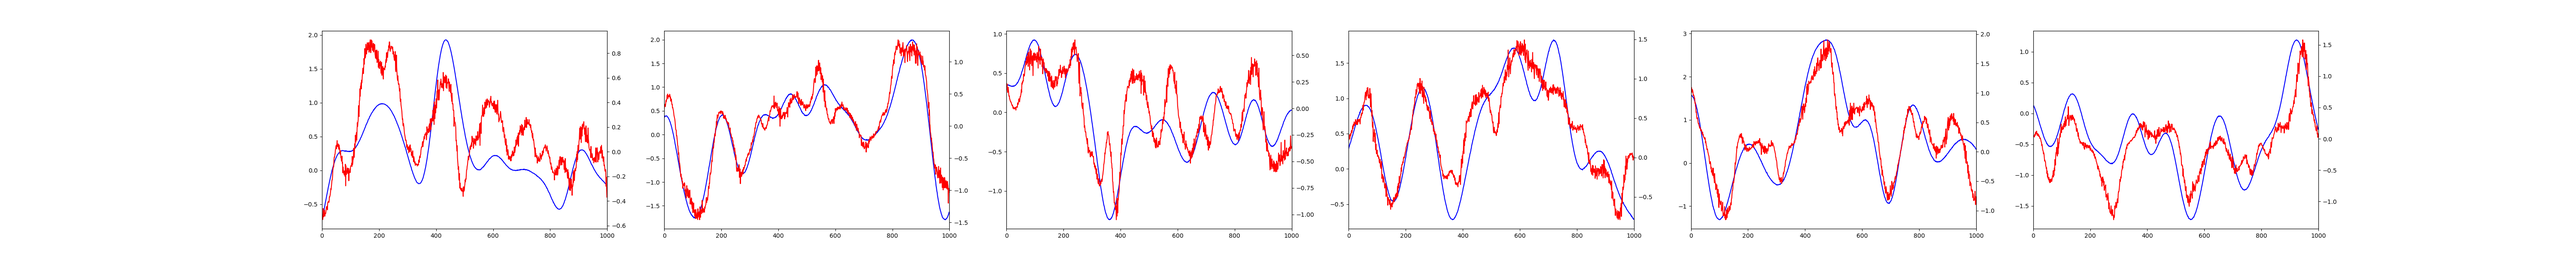
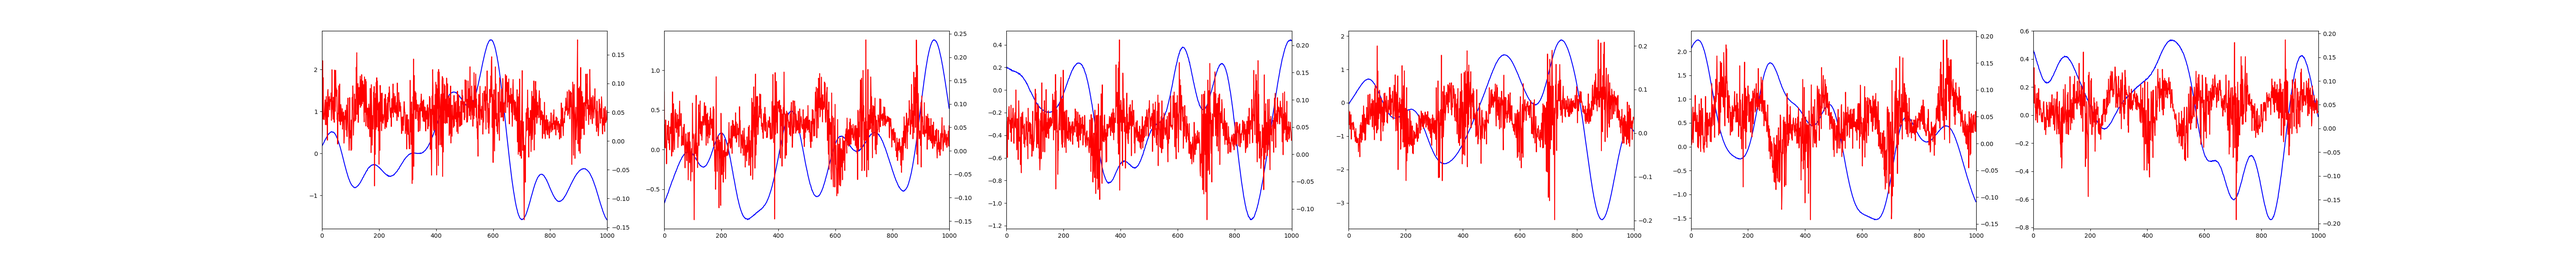
forcing df=2.01

diff --git a/data_generation.py b/data_generation.py
@@ -71,8 +71,8 @@ def sample_gpnica(key, t, gp_mu_fn, gp_k_fn, gp_k_params, mixer_params):
 
 
 def gen_tpnica_data(key, t, N, M, L, num_samples, mu_func, kernel_func,
-                    noise_factor=0.15, repeat_layers=False, repeat_dfs=False,
-                    repeat_kernels=False):
+                    tp_df=2.01, noise_factor=0.15, repeat_layers=False,
+                    repeat_dfs=False, repeat_kernels=False):
     # set-up Gamma prior and GP parameters (used for all samples)
     D = t.shape[-1]
     key, *gamma_keys = jr.split(key, N+1)
@@ -81,7 +81,8 @@ def gen_tpnica_data(key, t, N, M, L, num_samples, mu_func, kernel_func,
         gamma_keys = [gamma_keys[0]]*len(gamma_keys)
     if repeat_kernels:
         k_keys = [k_keys[0]]*len(k_keys)
-    dfs = vmap(rdm_df)(jnp.vstack(gamma_keys))
+    #dfs = vmap(rdm_df)(jnp.vstack(gamma_keys))
+    dfs = jnp.ones((N,))*tp_df
     if D == 1:
         k_params = vmap(lambda _: rdm_SE_kernel_params(_))(jnp.vstack(k_keys))
     elif D == 2:

diff --git a/main.py b/main.py
@@ -62,6 +62,8 @@ def parse():
                         help="zero (zero mean assumed),")
     parser.add_argument('--kernel', type=str, default="se",
                         help="se (squared exponential),")
+    parser.add_argument('--tp-df', type=float, default=2.01,
+                        help="df of t-process for simulated data")
     parser.add_argument('--GP', action='store_true', default=False,
                         help="generate and train from GP latents instead of TP")
     # inference, training and optimization args
@@ -151,7 +153,7 @@ def main():
     else:
         x, z, s, tau, *params = gen_tpnica_data(data_key, t, args.N, args.M,
                               args.L_data, args.num_data, mu_fn, k_fn,
-                              repeat_kernels=args.repeat_kernels,
+                              args.tp_df, repeat_kernels=args.repeat_kernels,
                               repeat_dfs=args.repeat_dfs)
 
     # check that noise is appropriate level
